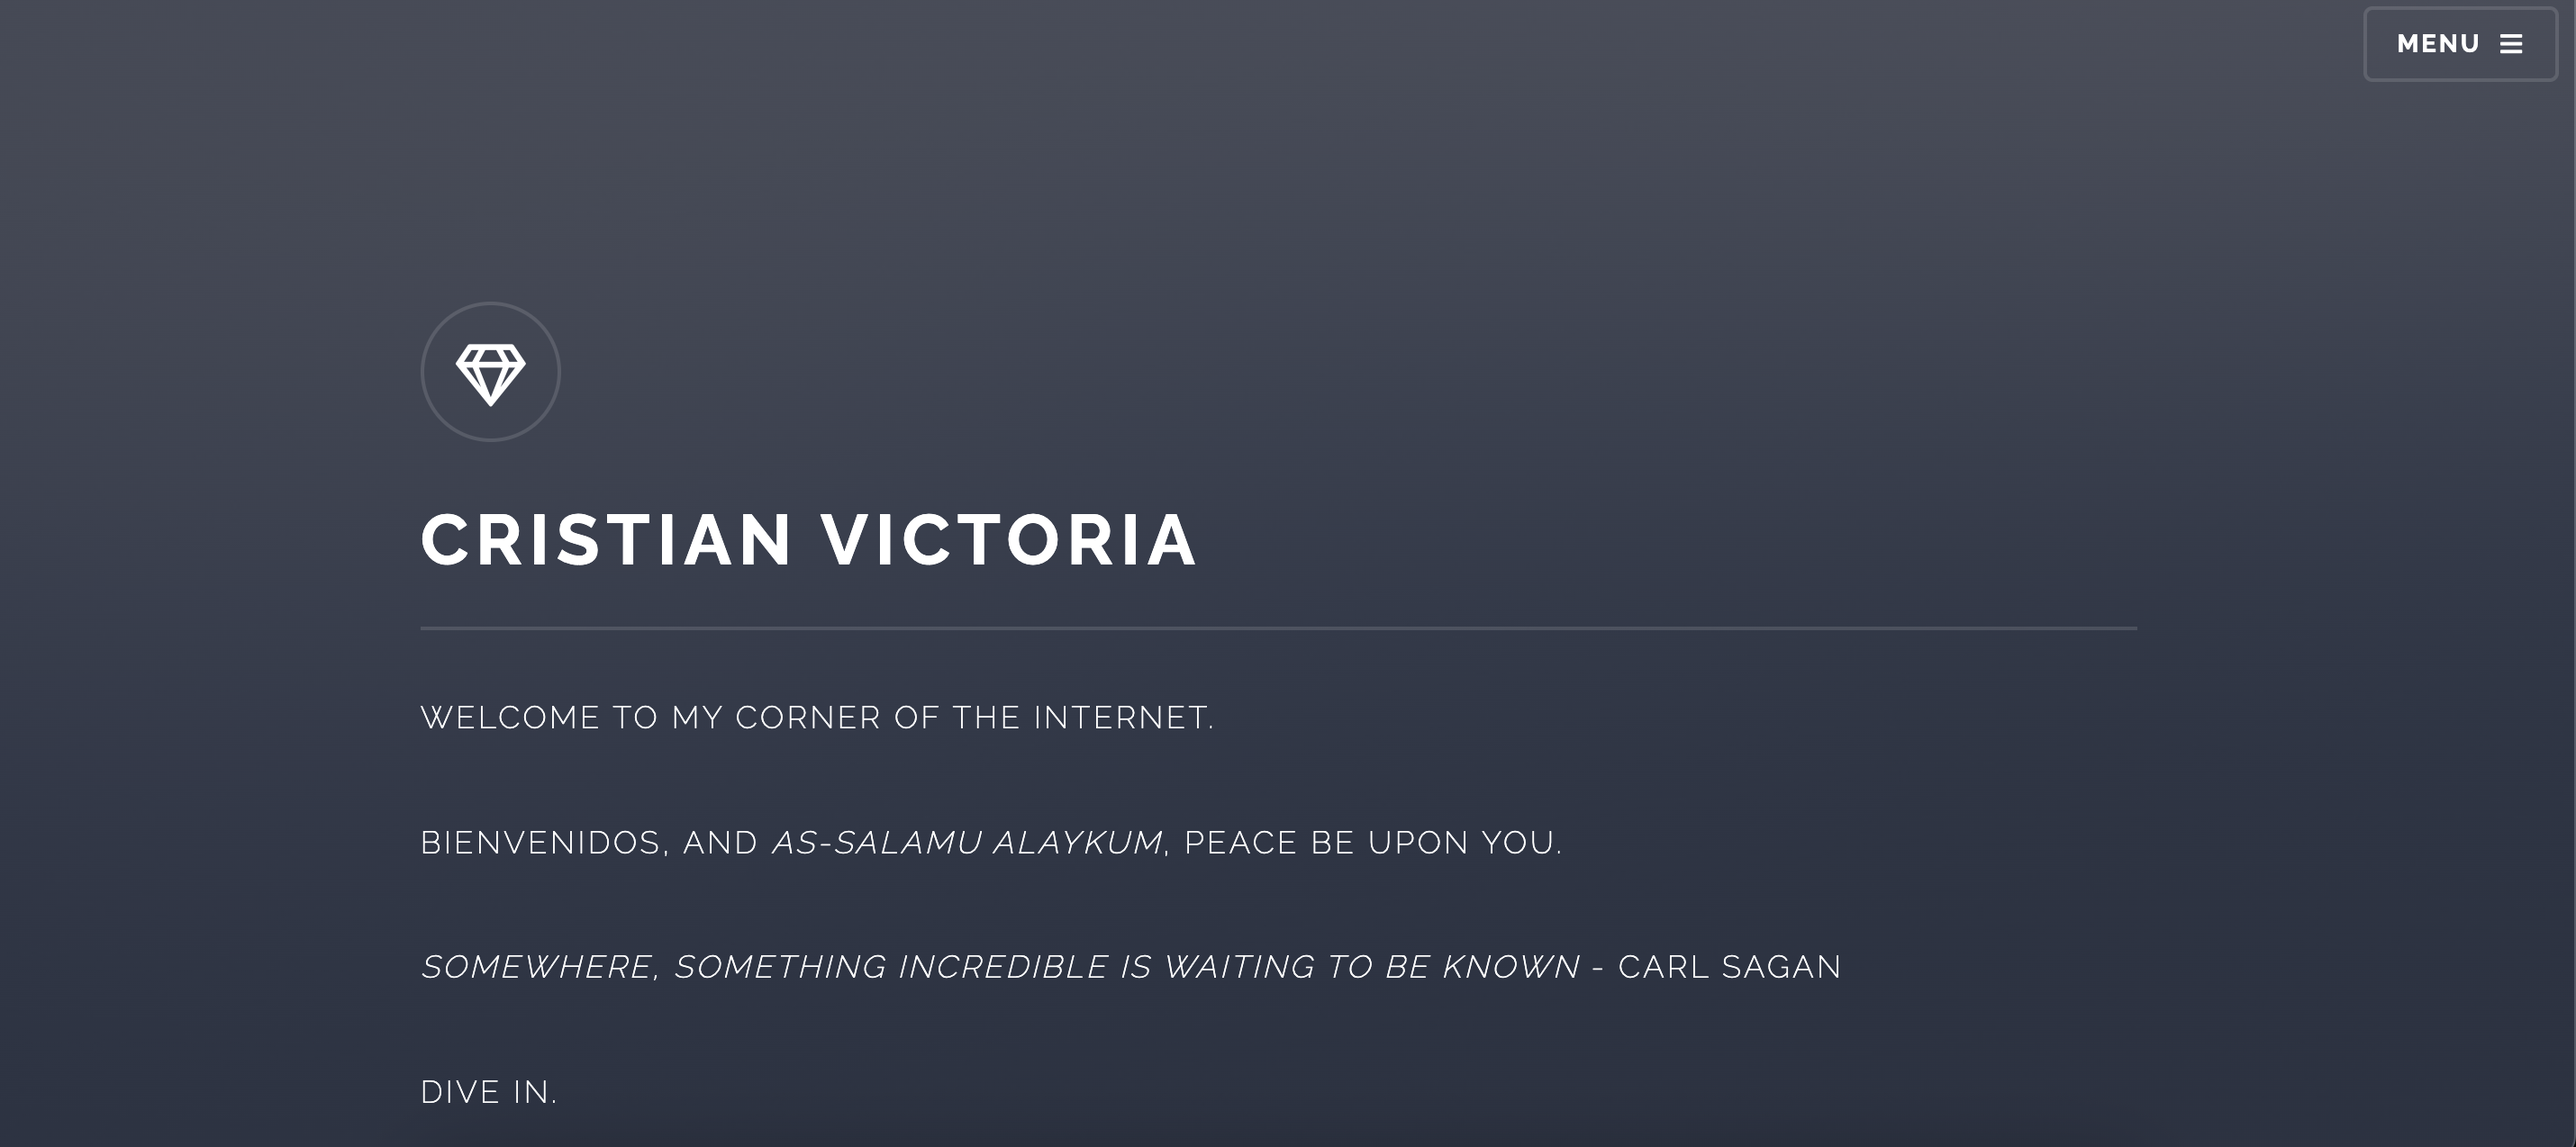
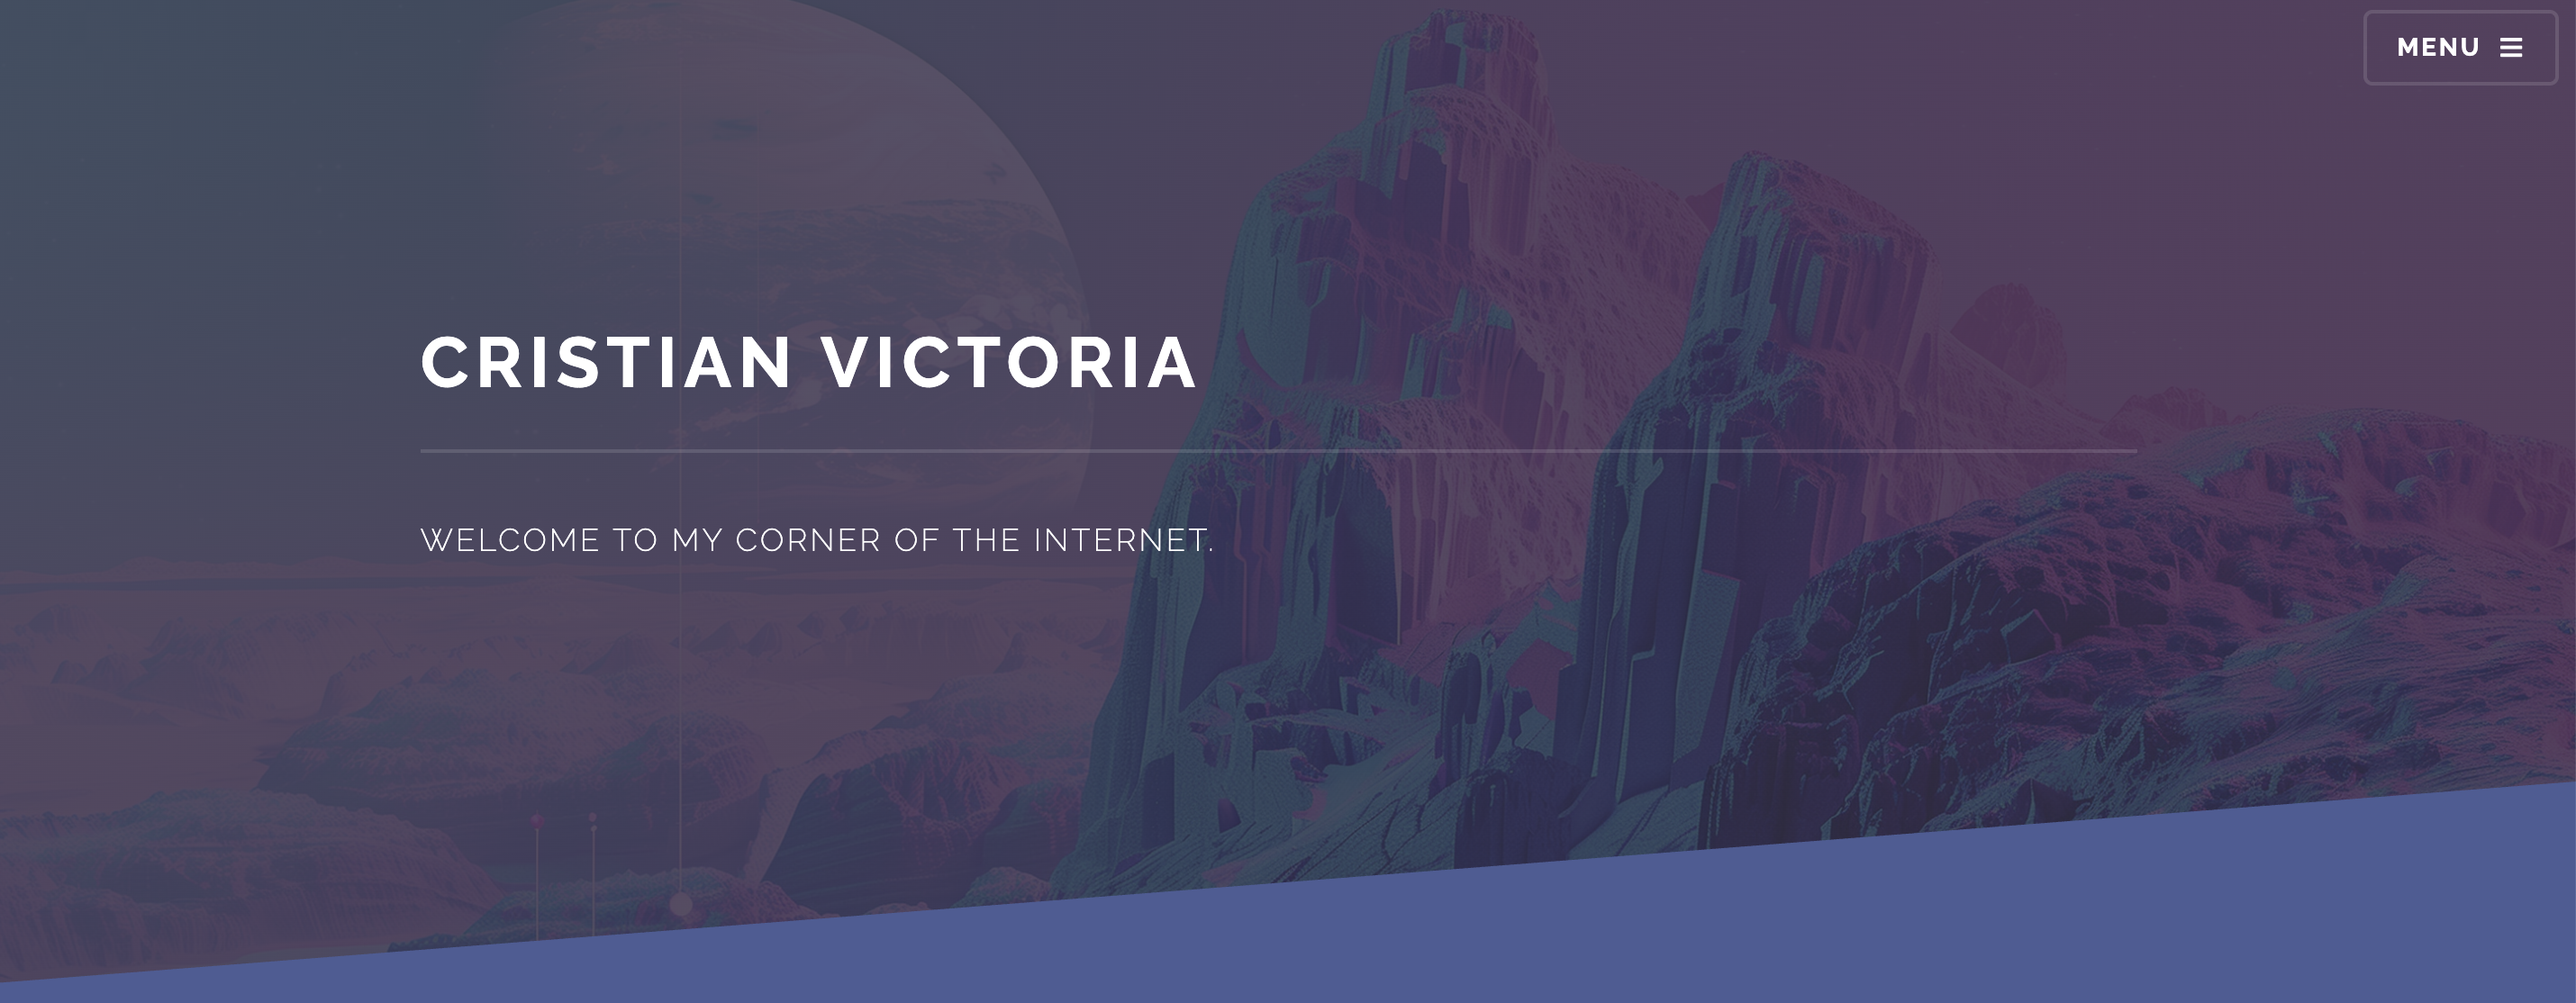
updates

diff --git a/index.html b/index.html
@@ -27,9 +27,9 @@
 							<h2>Menu</h2>
 							<ul class="links">
 								<li><a href="index.html">Home</a></li>
-								<li><a href="philosophy.html">Philosophy</a></li>
+								<!-- <li><a href="philosophy.html">Philosophy</a></li>
 								<li><a href="religion.html">Religion</a></li>
-								<!-- <li><a href="elements.html">Religion</a></li> -->
+								<li><a href="elements.html">Religion</a></li> -->
 							</ul>
 							<a href="#" class="close">Close</a>
 						</div>
@@ -38,12 +38,8 @@
 				<!-- Banner -->
 					<section id="banner">
 						<div class="inner">
-							<div class="logo"><i class="fa-sharp fa-regular fa-face-smile"></i></div>
 							<h2>Cristian Victoria</h2>
 							<p>Welcome to my corner of the internet.</p>
-							<p>Bienvenidos, and <em>as-salamu alaykum</em>, peace be upon you.</p>
-							<p><em>Somewhere, something incredible is waiting to be known </em>- Carl Sagan</p>
-							<p>Dive in.</p>
 						</div>
 					</section>
 
@@ -53,14 +49,13 @@
 						<!-- One -->
 							<section id="one" class="wrapper spotlight style1">
 								<div class="inner">
-									<a href="#" class="image"><img src="images/pic01.jpg" alt="" /></a>
 									<div class="content">
-										<h2 class="major">Observer and Participant of life</h2>
-										<p>Everything in this world, whether tangible or intangible, is one piece of a puzzle that is life. In Hindu cultures, it is 
-											said that we are all made up of the same thing; just as clay can have different forms, our bodies and our lives are a product 
-											of the same thing that plants, other animals, and inanimate objects are made of. In that case, we are all participants of life. 
+										<h2 class="major">Appreciation for life</h2>
+										<p>Everything in this world, whether tangible or intangible, are all pieces of the puzzle that is life. In Hindu cultures, it is 
+											believed that we are all made up of the same thing — just as clay can have different forms, our bodies and physical surroundings are too a product 
+											of the same material but in different shapes and sizes. I believe this definition can extend far beyond the edges of the universe. In that case, there is to be 
+											an appreciation to be had of everything and everyone as equals. 
 										</p>
-										<a href="https://github.com/cristian-victoria/cristianvictoria.github.io" class="special">Visit Repo</a>
 									</div>
 								</div>
 							</section>
@@ -68,16 +63,15 @@
 						<!-- Two -->
 							<section id="two" class="wrapper alt spotlight style2">
 								<div class="inner">
-									<a href="#" class="image"><img src="images/pic02.jpg" alt="" /></a>
 									<div class="content">
 										<h2 class="major">Student of the World</h2>
-										<p>In an age marked by advancing technology and artificial intelligence, in the pursuit for ultimate comfort and convenince we
-											can forget our duty to uphold our core values of curiosity. There is so much to the world yet to be explored, learned about, 
-											and appreciated, and yet we conform to the societal pressure of letting these technologies take control of a lot of our day to day 
-											actions that we lose track of what it is to be curious. 
+										<p>In an age marked by advancing technology and artificial intelligence in the pursuit for ultimate comfort and convenince, we
+											can forget to uphold our humanly duty to be curious as we owe it to the countless lives before us whose curiosity paved the way for
+											incredible strides in scientific discovery and philosophical discussion that, as a cumulative, have provided our generation with the 
+											luxury of civility and peace between nations unlike never seen before. There is so much to the world yet to be explored, diseases to be found
+											a cure, infrastructures and institutions to be placed to solve world hunger, poverty, and climate change. There is so much of the world yet to be 
+											loved and appreciated, and yet we conform to the societal pressure of letting these technologies take control of our daily lives and dim the light inside of us.
 										</p>
-										<a href="#" class="special">Visit Website</a>
-										<a href="https://github.com/cristian-victoria/ifswebsite.github.io" class="special">Visit Repo</a>
 									</div>
 								</div>
 							</section>
@@ -85,15 +79,15 @@
 						<!-- Three -->
 							<section id="three" class="wrapper spotlight style3">
 								<div class="inner">
-									<a href="#" class="image"><img src="images/pic03.jpg" alt="" /></a>
 									<div class="content">
 										<h2 class="major">Seeker of spiritual truth</h2>
 										<p>My spiritual journey is one that will last me a lifetime. I do not think that I will ever be able to obtain the answer to 
-											the existencial question that persists in this word - why are we all here, now, alive and present at this exact moment in time?
-											But this will not stop me, or neither should it stop anyone from embarking on their own spiritual journeys. If we as a
-											conscious species are to have purpose, or a responsibility in other words, it is this. This is our ultimate contribution to the world.
+											the existencial question that persists in this word — why are we all here, now, alive and present at this exact moment in time?
+											Even if I get close to the answer, a part of me believes that I will never be able to fully comprehend the true answer to this question as it
+											exists in a realm far beyond our physical bodies can ever reach. But this will not stop me, or neither should it stop anyone from embarking on 
+											their own spiritual journeys. If we as a conscious species are to have purpose, or a responsibility in other words, it is this. This is our ultimate 
+											contribution to the world and one we should not be afraid of embarking in.
 										</p>
-										<a href="https://github.com/cristian-victoria/SportsFinderProject" class="special">Visit Repo</a>
 									</div>
 								</div>
 							</section>
@@ -102,14 +96,14 @@
 							<section id="four" class="wrapper alt style1">
 								<div class="inner">
 									<h2 class="major">A Software Programmer</h2>
-									<p>I am currently embarking on a B.A. in Computer Science at Florida State University, expected to graduate in May of 2026. Whether I am undergoing intensive coursework or
-										embarking on personal or collaborative projets with my peers, this educational journey has allowed me to develop and grow my skills as a programmer. 
-										The range of projects are showcased below.</p>
+									<p>I am currently working on finishing my B.A. in Computer Science at Florida State University, with an expectation to graduate in May, 2026. Through extensive coursework and
+										a range of personal and collaborative projets with my peers, I've been able to deepen my knowledge in the area of Computer Science and has allowed me to develop and grow my skills as a programmer. 
+										Some of these projects are showcased below.</p>
 									<section class="features">
 										<article>
 											<a href="https://github.com/cristian-victoria/cristianvictoria.github.io" class="image"><img src="images/myweb.png" alt="My Website Home" /></a>
 											<h3 class="major">This Website</h3>
-											<p>This is me splattered on a webpage.</p>
+											<p>Designed and built a website that encompasses who I am.</p>
 											<a href="https://github.com/cristian-victoria/cristianvictoria.github.io" class="special">Visit Repo</a>
 										</article>
 										<article>
@@ -118,13 +112,6 @@
 											<p>Designed and Built website for Integrated Financial Services, a small financial consulting firm based in Orlando, 
 											FL.</p>
 											<a href="https://github.com/cristian-victoria/ifswebsite.github.io" class="special">Visit Repo</a>
-										</article>
-										<article>
-											<a href="https://github.com/cristian-victoria/SportsFinderProject" class="image"><img src="images/pic06.jpg" alt="Sports Finder Login" /></a>
-											<h3 class="major">Sports Finder App</h3>
-											<p>Built a web application that allows users to find and rent sports complexes around the city of Tallahassee, FL, to 
-											play their favorite sports with friends through the use of an interactive map.</p>
-											<a href="https://github.com/cristian-victoria/SportsFinderProject" class="special">Visit Repo</a>
 										</article>
 										<article>
 											<a href="https://github.com/cristian-victoria/fantasy_soccer_database" class="image"><img src="images/fantasysoccer.png" alt="Fantasy Soccer Home" /></a>
@@ -184,8 +171,8 @@
 									www.facebook.com/CristianVictoriaPerez/</a></li>
 								<li class="icon brands fa-instagram"><a href="https://www.instagram.com/cristianv0426/">
 									www.instagram.com/cristianv0426/</a></li>
-								<li class="icon brands fa-github"><a href="https://github.com/cristian-victoria"></a>
-									www.github.com/cristian-victoria</li>
+								<li class="icon brands fa-github"><a href="https://github.com/cristian-victoria">
+									www.github.com/cristian-victoria</a></li>
 							</ul>
 							<ul class="copyright">
 								<li>&copy; 2025 All rights reserved.</li><li>CV</li>
